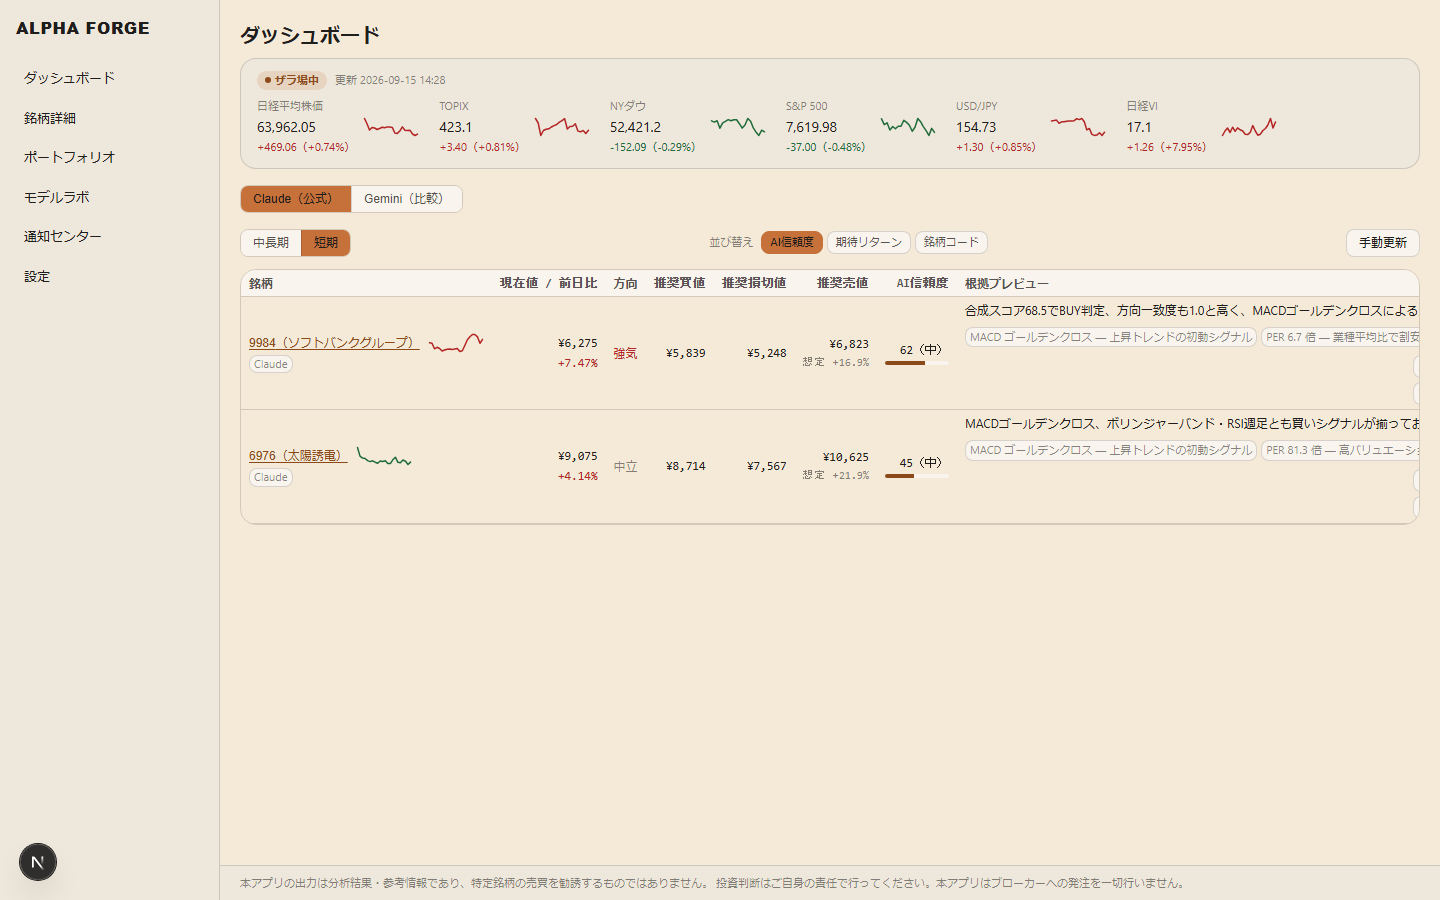
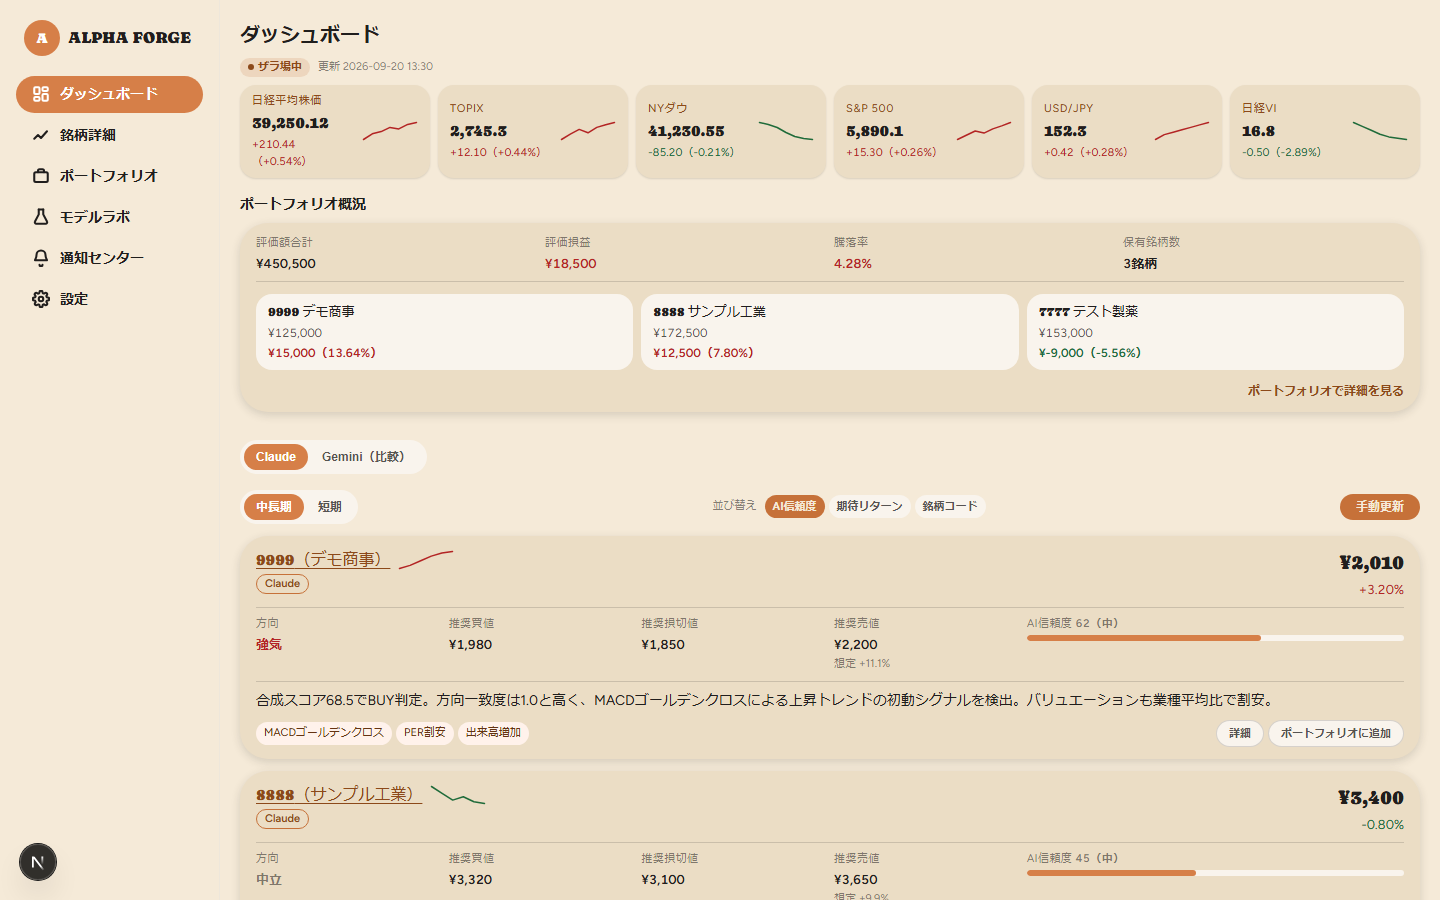
docs: P32のOrganicデザイン刷新に合わせてドキュメント・READMEスクリーンショットを更新
plans/03_システム設計.md §4.1/4.2 の画面一覧・UI規約が旧near-black+ブルー時代のまま
だったため、現行のOrganic デザインシステム（Caprasimo/Figtreeフォント・トーナルカラー・
カード形式・設定画面を含む6画面）に合わせて更新。plans/04_タスクリスト.md にP32、
plans/05_決定ログと未決事項.md に判断根拠（モックアップ原本のブランド配色よりドメイン
規約の赤/緑を優先した経緯）と本日の変更履歴を追記。docs/architecture.mdにも要約を追加。

README.mdのスクリーンショット（docs/screenshots/*.png）も新デザインで撮り直した。実際の
保有銘柄・金額が写り込むため、公開リポジトリでの掲載可否をユーザーに確認のうえ
（銘柄名・金額をマスキングする方針で合意）、API応答をデモデータでモックした状態で再撮影。

あわせて、実装済みの画面に「Pxで実装予定」という古いフェーズ案内文が残っていた不具合
（`portfolio`/`stock-detail`/`notifications`）を発見・修正: 完成済み機能の説明として
実態と矛盾していたため、`PageShell`から未使用になった`phase` propごと削除した。

diff --git a/frontend/src/__tests__/components/PageShell.test.tsx b/frontend/src/__tests__/components/PageShell.test.tsx
@@ -3,24 +3,7 @@ import { axe } from 'jest-axe';
 import { PageShell } from '@/components/ui/PageShell';
 
 describe('PageShell', () => {
-  it('タイトルとフェーズ表示、子要素を表示する', () => {
-    render(
-      <PageShell title="ダッシュボード" phase="P8">
-        <p>子要素</p>
-      </PageShell>,
-    );
-
-    expect(screen.getByRole('heading', { level: 1, name: 'ダッシュボード' })).toBeInTheDocument();
-    expect(screen.getByText('P8 で実装予定')).toBeInTheDocument();
-    expect(screen.getByText('子要素')).toBeInTheDocument();
-  });
-
-  it('アクセシビリティ違反がない', async () => {
-    const { container } = render(<PageShell title="ダッシュボード" phase="P8" />);
-    expect(await axe(container)).toHaveNoViolations();
-  });
-
-  it('🆕 P13: phase 省略時はフェーズ案内文を表示しない', () => {
+  it('タイトルと子要素を表示する', () => {
     render(
       <PageShell title="ダッシュボード">
         <p>子要素</p>
@@ -28,6 +11,17 @@ describe('PageShell', () => {
     );
 
     expect(screen.getByRole('heading', { level: 1, name: 'ダッシュボード' })).toBeInTheDocument();
-    expect(screen.queryByText(/で実装予定/)).not.toBeInTheDocument();
+    expect(screen.getByText('子要素')).toBeInTheDocument();
+  });
+
+  it('badge を渡すと見出し横に表示する', () => {
+    render(<PageShell title="モデルラボ" badge="自動学習ダッシュボード" />);
+
+    expect(screen.getByText('自動学習ダッシュボード')).toBeInTheDocument();
+  });
+
+  it('アクセシビリティ違反がない', async () => {
+    const { container } = render(<PageShell title="ダッシュボード" />);
+    expect(await axe(container)).toHaveNoViolations();
   });
 });

diff --git a/frontend/src/components/ui/PageShell.tsx b/frontend/src/components/ui/PageShell.tsx
@@ -1,18 +1,14 @@
 import type { ReactNode } from 'react';
 
-// 各画面の見出しと導入。`phase` は未実装フェーズの案内表示用（🔧 P13: 実装済みの画面
-// （ダッシュボード等）では省略してよいよう任意化した — 完成済み機能に「実装予定」の
-// 案内を出し続けるのは実態と乖離するため）。
+// 各画面の見出しと導入。
 export function PageShell({
   title,
   badge,
-  phase,
   children,
 }: {
   title: string;
   /** 見出し横に添える小さなラベル（例: 「自動学習ダッシュボード」）。任意。 */
   badge?: string;
-  phase?: string;
   children?: ReactNode;
 }): ReactNode {
   return (
@@ -36,13 +32,6 @@ export function PageShell({
           </span>
         )}
       </div>
-      {phase && (
-        <p
-          style={{ color: 'var(--color-text-muted)', fontSize: 'var(--font-size-sm)', marginBottom: 'var(--spacing-xl)' }}
-        >
-          {phase} で実装予定
-        </p>
-      )}
       {children}
     </section>
   );

diff --git a/frontend/src/app/portfolio/page.tsx b/frontend/src/app/portfolio/page.tsx
@@ -6,7 +6,7 @@ import { EodReviewPanel } from '@/components/portfolio/EodReviewPanel';
 
 export default function PortfolioPage(): ReactNode {
   return (
-    <PageShell title="ポートフォリオ" phase="P7">
+    <PageShell title="ポートフォリオ">
       <p>保有一覧、AI 判定（継続保有 / 一部利確 / 損切 / 買い増し）、承認キュー、大引け後レビュー。</p>
 
       <section aria-labelledby="holdings-heading" style={{ marginTop: 'var(--spacing-2xl)' }}>

diff --git a/frontend/src/app/notifications/page.tsx b/frontend/src/app/notifications/page.tsx
@@ -5,7 +5,7 @@ import { DailyNoteReview } from '@/components/notes/DailyNoteReview';
 
 export default function NotificationsPage(): ReactNode {
   return (
-    <PageShell title="通知センター" phase="P7">
+    <PageShell title="通知センター">
       <section>
         <h2>本日のnote下書き</h2>
         <p>AIが本日のピック分析結果から生成した有料note記事の下書き。確認・編集して承認し、note.comへは手動投稿する。</p>

diff --git a/frontend/src/app/stock-detail/page.tsx b/frontend/src/app/stock-detail/page.tsx
@@ -14,7 +14,7 @@ export default async function StockDetailPage({
   const selectedSymbol = symbol ?? null;
 
   return (
-    <PageShell title="銘柄詳細" phase="P8">
+    <PageShell title="銘柄詳細">
       <p>ピック銘柄一覧 + チャート（期間切替）+ 4 分析内訳 + AI 思考トレース（ライブ / リプレイ）。</p>
 
       <section aria-labelledby="stock-search-heading" style={{ marginTop: 'var(--spacing-2xl)' }}>

diff --git a/plans/04_タスクリスト.md b/plans/04_タスクリスト.md
@@ -6,7 +6,7 @@
 
 進捗記号: `[ ]` 未着手 / `[~]` 進行中 / `[x]` 完了
 
-**全体ステータス: P0〜P26 全フェーズ完了**（2026-09-13）。受け入れ基準（01_PRD §8）は P8d 時点ですべて充足済み。P9 以降はユーザーからの追加依頼に基づく機能拡張・UI刷新・不具合修正（銘柄別モデル自動学習・ナレッジベース統合・UI改善各種・マルチLLM判定・ダッシュボード刷新・配色テーマ2回の全面切替・設定画面・Gemini/Claudeピック分離・ポートフォリオCRUD拡張・学習対象設定/並列学習/チャート兆候マーカー〔P31〕）。未チェック項目は「横断（各フェーズで随時）」の恒常運用ルールのみ。
+**全体ステータス: P0〜P26 全フェーズ完了**（2026-09-13）。受け入れ基準（01_PRD §8）は P8d 時点ですべて充足済み。P9 以降はユーザーからの追加依頼に基づく機能拡張・UI刷新・不具合修正（銘柄別モデル自動学習・ナレッジベース統合・UI改善各種・マルチLLM判定・ダッシュボード刷新・配色テーマ2回の全面切替・設定画面・Gemini/Claudeピック分離・ポートフォリオCRUD拡張・学習対象設定/並列学習/チャート兆候マーカー〔P31〕・Organicデザインシステム全画面適用/ポートフォリオ概況〔P32〕）。未チェック項目は「横断（各フェーズで随時）」の恒常運用ルールのみ。
 
 ---
 
@@ -1315,6 +1315,54 @@ jest 338件、ruff/black/mypy/bandit/tsc/eslint/next build 全通過）。完了
 既存無関係バグ1件は別タスク化）、`ruff`/`black`/`mypy`/`bandit` 全通過、(2) frontend
 `jest` 360件 green、`tsc --noEmit`/`eslint`/`next build` 全通過、(3) マイグレーション
 （`0012`）を実DBへ適用済み。
+
+---
+
+## P32 — Organicデザインシステム全画面適用・ポートフォリオ概況・CI修正（2026-09-20、ユーザー依頼）
+
+- [x] `app/layout.tsx`/`app/tokens.css`（🔧）: ユーザーが Claude Design で作成したモックアップ
+  （Claude Design 連携が認証エラーのため `.dc.html` バンドルファイルを手動エクスポートし、
+  自己解凍JSから実HTML/CSSソースを抽出）を反映。見出し=Caprasimo・本文=Figtreeを
+  `next/font/google` で自己ホスト化し、`--color-accent-100〜900`/`--color-accent-2-100〜900`/
+  `--color-neutral-100〜900` のトーナルランプを追加（既存の `--color-gain`/`--color-loss`・
+  角丸・影のトークンは P21 で既に "Organic" 系のため変更なし）。
+- [x] `components/layout/Sidebar.tsx`（🔧）: ロゴバッジ+アイコン付きナビ、`next/link`+
+  `usePathname` によるアクティブ状態のピル塗りつぶし表示を追加（従来は素の `<a>` でアクティブ
+  状態を持たなかった）。
+- [x] ダッシュボード（🔧）: `PicksBoard`/`ShadowPicksBoard` の AI ピックを `DataTable` 行から
+  カード形式へ構造変更（モックアップ原本準拠、ユーザー確認済み）。市況ティッカーもカード化。
+- [x] ポートフォリオ（🔧）: `HoldingsTable` をカード形式へ構造変更。承認キュー（`SignalQueue`）
+  は既存のカード構造を維持しつつ配色・角丸のみ更新。
+- [x] 銘柄詳細（🔧）: `SubScorePanel`（4分析内訳）を一覧行からカードグリッドへ構造変更。
+  `lightweight-charts` のツールチップ・AI推論トレースのステージノードは新配色へ更新
+  （チャート本体のロジックは変更なし）。
+- [x] モデルラボ・通知センター・設定（🔧）: 既存のカード構造は維持し、ボタン・タグ・入力欄の
+  ピル形状化（角丸999px）と新トーナルカラーへの配色更新のみ。
+- [x] `PortfolioSummarySection`（🆕、ユーザー依頼「ダッシュボードにポートフォリオの銘柄概要と
+  トータル収支も出してほしい」）: `fetchPortfolio()` を再利用し、評価額合計/評価損益/騰落率/
+  保有銘柄数と保有銘柄プレビュー（最大6件、超過分は「ほかN銘柄」表示）をダッシュボードへ追加。
+  取得失敗時は `MarketTickerBar` と同じくフェイルソフト（ダッシュボード全体を妨げない）。
+- [x] `PortfolioOverview`（🔧、ユーザー依頼「トータル収支は大きくだしてほしい」）: 評価額合計/
+  評価損益/騰落率を専用カード（`.portfolio-totals-card`）+ 新規トークン `--font-size-4xl`
+  （2rem）の大きなCaprasimo見出しで強調表示するよう変更（承認キューの `signal-card-bracket`
+  とは別クラスに分離し、そちらのコンパクト表示に影響しないようにした）。
+- [x] CI修正（作業中に発覚した既存バグ2件、直近数日CIが継続的に赤くなっていた原因）:
+  (1) `model_registry_db.set_champion()` が常に `datetime.now(JST)` を `promoted_at` に
+  使っており、`test_pipeline_log_service.py` の `champion_swap_count` 検証がテスト作成日
+  （`_DATE = "2026-09-18"`）以外に実行すると構造的に必ず失敗していた。`upsert_model` の
+  `trained_at` と同様に `promoted_at` を任意引数化し、テストから日付を固定できるようにした
+  （本番呼び出しは全て省略のため現在時刻のまま動作）。
+  (2) 承認キュー（`SignalQueue.tsx`）が `signal.shadow_signals.map()` を無条件に呼んでおり、
+  フィールドが欠けたレスポンスだとページ全体がクラッシュし E2E
+  （`portfolio-approval.spec.ts`）が失敗していた。`signal.shadow_signals ?? []` で防御的に
+  修正し、E2E モックフィクスチャにも実際のAPI契約（バックエンドは常に配列を返す）に合わせ
+  `shadow_signals: []` を追加。
+
+**完了条件**: (1) backend `pytest backend/tests -q` 926件 green、`ruff`/`black`/`mypy`/
+`bandit` 全通過、(2) frontend `jest` 367件（新規5件）green、`tsc --noEmit`/`eslint`/
+`next build` 全通過、Playwright E2E 5件 green、(3) GitHub Actions CI 全ジョブ
+（Backend 3.11/3.13・Frontend・E2E）green（`gh run view` で確認）、(4) 上げ赤/下げ緑の
+ドメイン規約はモックアップ原本のブランド配色（テラコッタ/セージ）に流されず据え置き。
 
 ---
 

diff --git a/README.md b/README.md
@@ -21,17 +21,17 @@
 <tr>
 <td width="50%">
 
-**ダッシュボード** — 主要指数のライブティッカーと、Claude / Gemini
-2 系統の AI 信頼度付きピック一覧。
+**ダッシュボード** — 主要指数のライブティッカー、ポートフォリオ概況（評価額合計・評価損益・
+騰落率）、Claude / Gemini 2 系統の AI 信頼度付きピック一覧。銘柄名・金額はデモ用にマスキング済み。
 
 <img src="docs/screenshots/dashboard.png" alt="ダッシュボード" width="100%">
 
 </td>
 <td width="50%">
 
-**銘柄詳細 — AI 思考の可視化** — チャート + 推論パイプラインの
+**銘柄詳細 — AI 思考の可視化** — チャート + 4 分析内訳 + 推論パイプラインの
 各ステップ（収集 / サブスコア / 合成 / LLM 深掘り / ブラケット / 検証）を
-ライブ・リプレイで追跡。
+ライブ・リプレイで追跡。銘柄名はデモ用にマスキング済み。
 
 <img src="docs/screenshots/stock-detail.png" alt="銘柄詳細" width="100%">
 
@@ -40,8 +40,9 @@
 <tr>
 <td width="50%">
 
-**ポートフォリオ** — 保有銘柄の評価損益と、AI 売買タイミング判定の承認キュー
-（**発注は自動化せず、人間の承認を必須化**）。金額・数量はデモ用にマスキング済み。
+**ポートフォリオ** — トータル収支を大きく強調表示し、保有銘柄の評価損益と AI 売買タイミング
+判定の承認キューを一覧（**発注は自動化せず、人間の承認を必須化**）。銘柄名・金額はデモ用に
+マスキング済み。
 
 <img src="docs/screenshots/portfolio.png" alt="ポートフォリオ" width="100%">
 

diff --git a/docs/architecture.md b/docs/architecture.md
@@ -61,6 +61,12 @@ frontend/src/
   （`services/llm/` 新設、Anthropic/OpenAI/Gemini対応、`plans/04` P27・`plans/05` §2c）・
   note下書き自動生成・Obsidian/SingleHTML/WordPress WXR書き出し + 個人用Vaultアーカイブ
   レポート（`services/notes/` `services/vault_report/` 新設、`plans/04` P28・`plans/05` §2d）。
+- P32（2026-09-20）: ユーザー提供の Claude Design モックアップに基づき、見出し=Caprasimo・
+  本文=Figtree フォントとトーナルカラーを全画面へ適用し、AIピック・保有銘柄・4分析内訳を
+  `DataTable` 行からカード形式へ構造変更。ダッシュボードにポートフォリオ概況ウィジェット
+  （`PortfolioSummarySection`）を新設し、ポートフォリオ画面本体のトータル収支を大きな見出しで
+  強調表示（`plans/04` P32・`plans/05` §2b 参照）。上げ赤/下げ緑のドメイン規約はモックアップの
+  ブランド配色（テラコッタ/セージ）に流されず据え置いた。
 
 ## 3. 推論オーケストレータの実行順（計画からの変更点）
 
